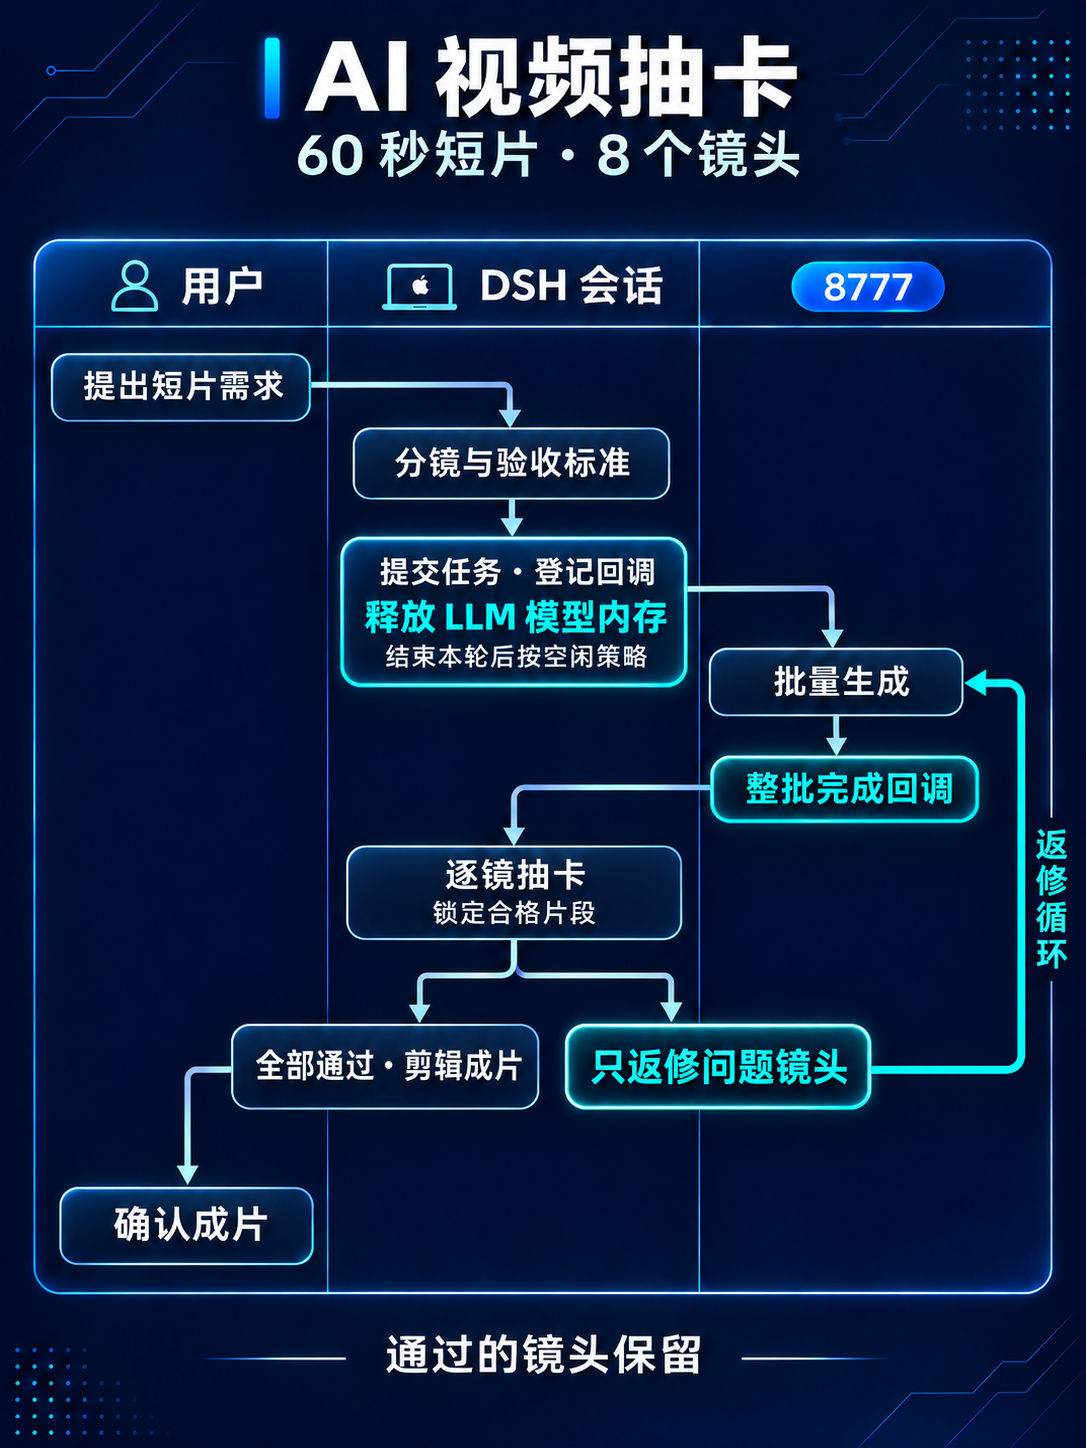
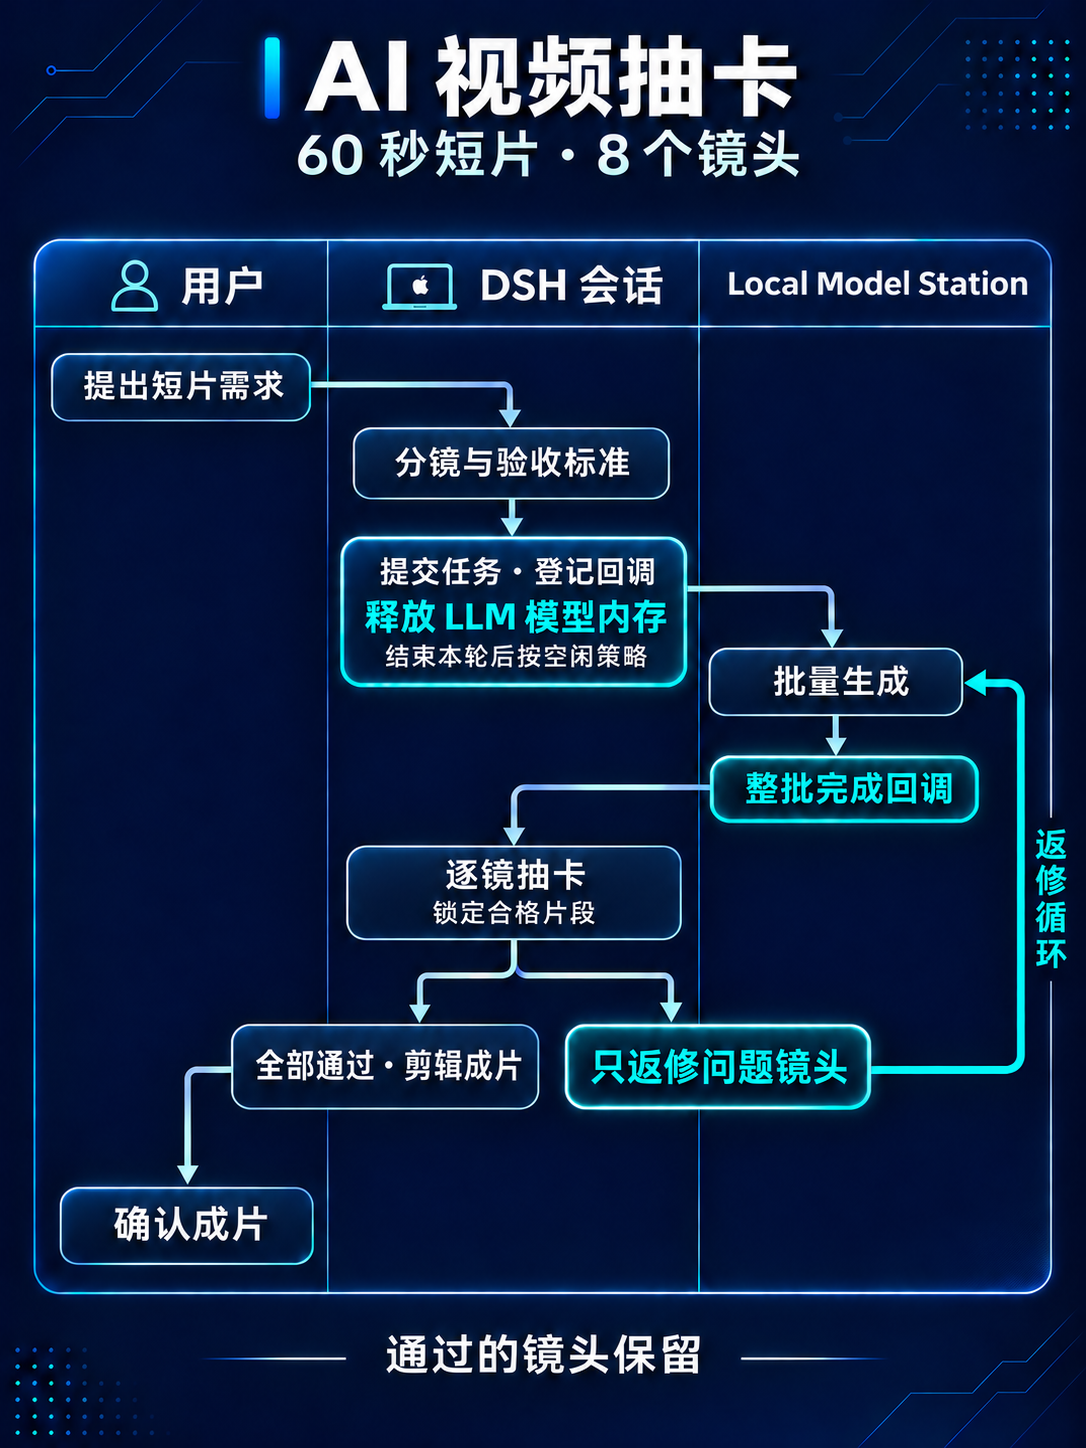
Show a 96 GiB sequential generation and review example

diff --git a/README.en.md b/README.en.md
@@ -41,9 +41,11 @@ Example callback body:
 
 ## A 60-second short film: generate, review, and revise
 
-DSH breaks the film into eight shots and submits several candidates for each. Local Model Station generates the batch and calls back to the original session. DSH locks approved clips, revises only the shots with no usable candidate, and repeats the loop before editing the film.
+**The problem:** a high-quality LLM and an image or video model may not fit in memory at the same time. On a 96 GiB Apple Silicon Mac, suppose the planning model leaves 12 GiB available. The included MiniMax H3 video profile requires 13 GiB and the FLUX.3 image profile requires 28 GiB of available memory, so both wait. The 12 GiB figure is illustrative; 13 and 28 GiB are configured start thresholds.
 
-After the submission turn ends, the text inference engine can unload its model according to its idle policy, freeing memory for video generation. The review turn can load it again on demand.
+**The workflow:** DSH plans eight shots for a 60-second film, submits the video candidates, registers a callback, and ends the turn. The text engine can unload the LLM according to its idle policy. Once enough memory is available, Local Model Station starts the video jobs. The batch callback wakes the original DSH session, which can reload the LLM on demand and review the clips.
+
+For example, six shots pass and two have actions that diverge from the storyboard. DSH keeps the six approved clips, adjusts the prompts or reference assets for the other two, and submits just those shots again. The next callback starts another review. Planning and review use the LLM, and the video engine uses the same Mac's memory during generation.
 
 ![Three-lane workflow: the user requests a film, DSH reviews candidates, and Local Model Station regenerates only the shots that need revision](docs/images/video-candidate-loop.png)
 

diff --git a/README.md b/README.md
@@ -81,9 +81,11 @@ python3 batch_wait.py --url http://192.168.1.50:8777 "$TASK_ID_1" "$TASK_ID_2" \
 
 ## 应用场景：60 秒短片的抽卡与返修
 
-DSH 把短片拆成 8 个镜头，为每个镜头提交多个候选。8777 批量生成，整批结束后回调原会话。DSH 逐镜比较并锁定合格片段，只重提没有合格候选的镜头，直到可以按分镜剪辑成片。
+**解决的问题：同一台 Mac 上，高质量 LLM 和视频／图像模型可能无法同时驻留。** 以一台 96 GiB Apple Silicon Mac 为例，假设跑着用于分镜和验收的大模型，系统只剩 12 GiB 可用内存。本项目的 MiniMax-H3 视频 profile 要求至少 13 GiB，FLUX.3 图像 profile 要求至少 28 GiB，此时两类任务都要等。12 GiB 是示例余量，13／28 GiB 是配置的启动门槛。
 
-提交后结束当前轮次，文本模型可由推理引擎按空闲策略卸载，给视频生成释放内存。整批完成回调后，验收轮次再按需加载模型。
+**实际怎么跑：** DSH 把 60 秒短片拆成 8 个镜头，提交候选视频并登记回调，然后结束本轮。文本引擎按空闲策略卸载 LLM 后，8777 看到可用内存超过门槛，就启动视频任务。整批结束后，回调唤醒原 DSH 会话，文本模型按需重新加载，逐镜查看候选结果。
+
+例如首轮 6 个镜头通过，另有 2 个镜头人物动作偏离分镜。DSH 保留通过片段，只改这 2 个镜头的提示词或参考素材并重提，再次结束本轮。下一次回调回来继续验收，直到可按分镜剪辑成片。这样，**分镜与验收用 LLM，生成阶段用视频模型，两边轮流使用同一台 Mac 的内存。**
 
 ![AI 视频抽卡泳道：用户提出短片需求，DSH 逐镜验收，8777 生成及回调，问题镜头进入返修循环](docs/images/video-candidate-loop.png)
 
